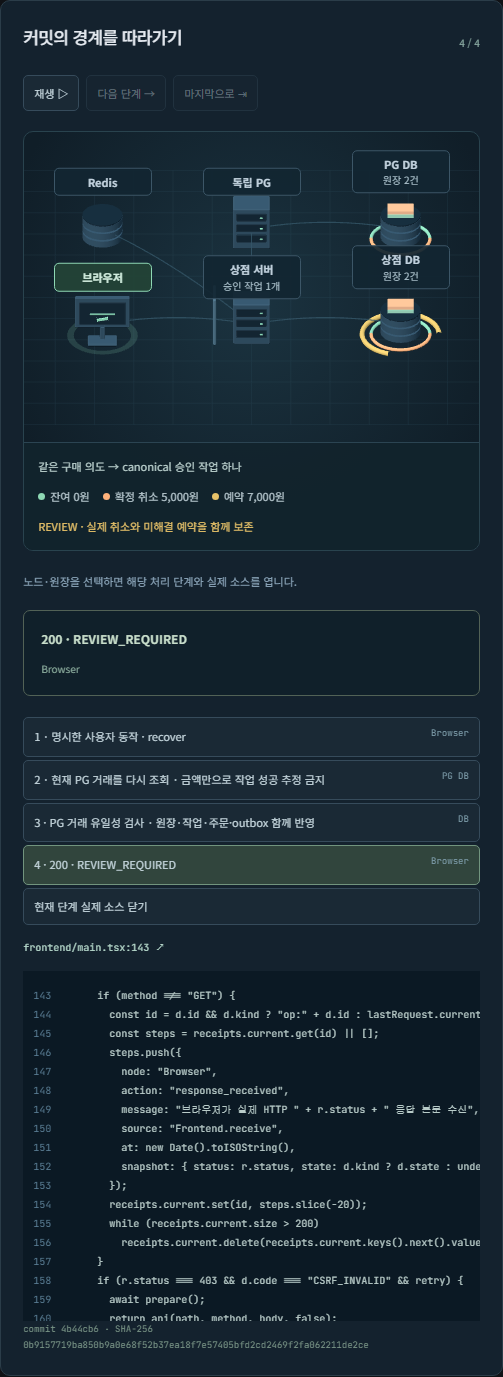
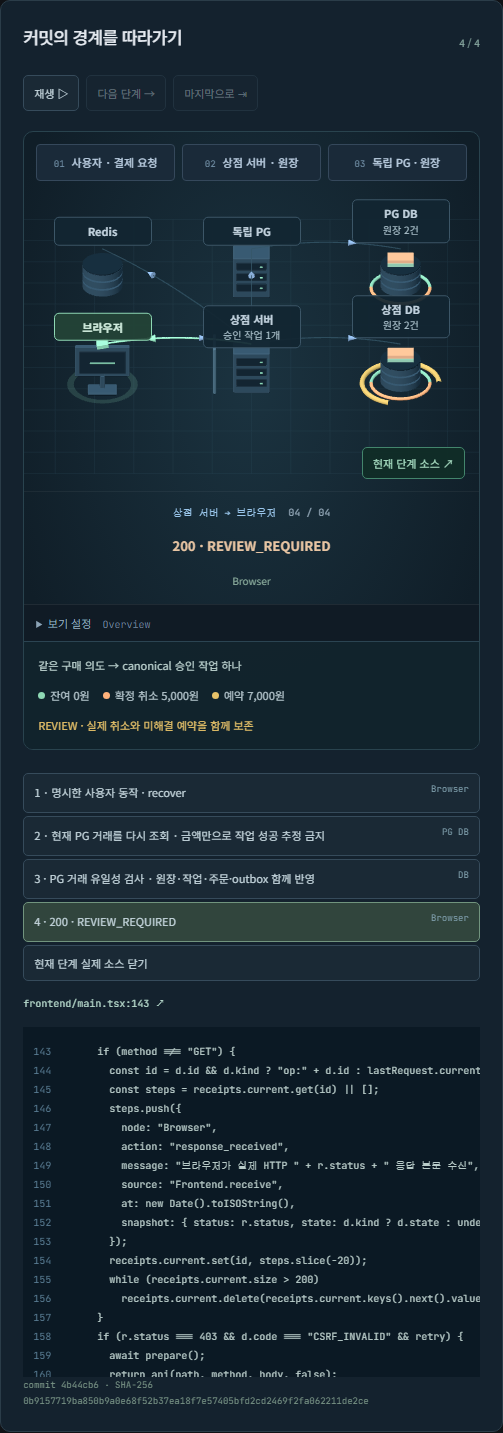
Record published flow-first UI verification and release hashes

diff --git a/scripts/test-auth-scene.ts b/scripts/test-auth-scene.ts
@@ -32,7 +32,10 @@ check(
     const preparing = result.frames.findIndex((f) =>
       f.state.sessions.some((s) => s.state === "PREPARING" && !s.redis),
     );
-    assert.deepEqual(loginSceneState(result.frames[0].state, 0, "A", result.frames, 0).route, ["browser", "server"]);
+    assert.deepEqual(
+      loginSceneState(result.frames[0].state, 0, "A", result.frames, 0).route,
+      ["browser", "server"],
+    );
     assert(preparing >= 0);
     const a = loginSceneState(
       result.frames[preparing].state,

diff --git a/design-qa.md b/design-qa.md
@@ -11,3 +11,5 @@
 브라우저 자동 검사의 전체 근거는 [결과 JSON](docs/project-view-verification/local/browser.json)과 같은 폴더의 상태별 이미지다. Codex 인앱 브라우저에서도 실제 로그인 화면을 열어 장면과 조작을 확인했다. 실제 휴대기기·전체 WCAG 적합성·백엔드 I/O 재실행을 주장하지 않는다. 공개 화면은 단계별 스냅샷 시뮬레이션이며 실제 백엔드 근거는 기존에 동결된 별도 실험 결과다.
 
 final result: passed
+
+공개 검증도 통과했다. [최종 요청 장면](docs/project-view-verification/published/login-request.png)에서 브라우저 → 서버 화살표와 접힌 View를 확인했고, [최종 모바일 가입](docs/project-view-verification/published/signup-responsive-390.png)은 데이터 카드 두 열을 유지한다. [공개 20그룹 결과](docs/project-view-verification/published/browser.json)와 [배포 해시](docs/project-view-verification/published/release.json)를 함께 보존한다.
